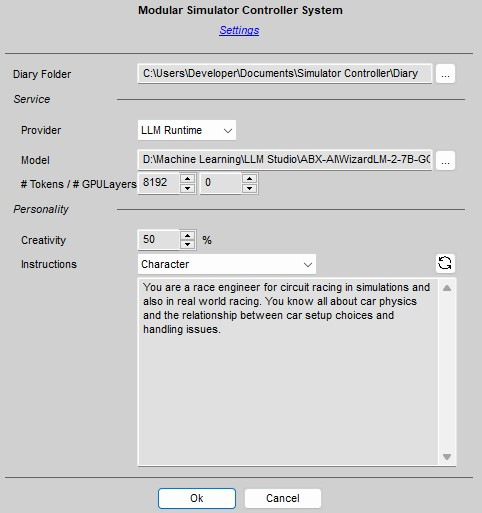
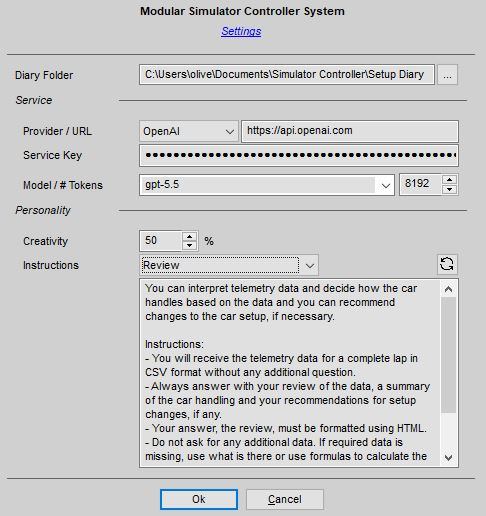
Setup Engineer Part 7

Changed region(s): [[0.0311, 0.4366, 0.9647, 0.9981], [0.0311, 0.0, 0.9647, 0.5302], [0.0311, 0.1871, 0.1245, 0.2183]]

diff --git a/Docs/Setup Workbench.md b/Docs/Setup Workbench.md
@@ -173,7 +173,7 @@ Another valuable tool to improve your lap times is the integrated Telemetry View
 
 As long as the Telemetry Viewer is open, car telemetry data will be collected lap by lap in the background while you are driving. You can use the browser to load the telemetry for a given lap and you can choose a reference lap for comparison.
 
-Good to know: The telemetry data is stored lap by lap in the *Simulator Controller\Temp\Setup Workbench\Telemetry* folder which is located in your user *Documents* folder.
+Good to know: The telemetry data is stored lap by lap in the *Simulator Controller\Temp\Setup Workbench\Telemetry* folder which is located in your user *Documents* folder. When you import laps from the session database, they will be stored in *Simulator Controller\Temp\Setup Workbench\Telemetry\Imported*.
 
 When looking for areas of improvement take a close look to your application of throttle and brakes and the activation of TC and ABS. Trailing off the brakes and the transition back to full throttle is the most important skill to master for fast lap times. This does not mean, that sometimes coasting around a corner is not necessary. Use the Telemetry Viewer to compare your laps with the fastest lap of a given session and learn what exactly made you faster there.
 
@@ -216,7 +216,7 @@ Good to know: If you use the "Open..." button in the dialog, which let's you bro
 
 The fourth tool available to detect and mitigate car setup issues is the so-called *Setup Engineer*, which is using GPT technology to analyze your telemetry data and derive a very detaild performance and handling analysis. Before you can use the Setup Engineer, you must configure a GPT service provider using this dialog, which can be openend by clicking on the settings button in the upper right corner of the main window of "Setup Workbench".
 
-![](https://github.com/SeriousOldMan/Simulator-Controller/blob/main/Docs/Images/Setup%20Workbench%20Settings.JPG)
+![](https://github.com/SeriousOldMan/Simulator-Controller/blob/main/Docs/Images/Setup%20Workbench%20Settings.jpg)
 
 Here cou can choose a GPT service and a suitable LLM for the Setup Engineer. The choice are similar to the GPT configuration of the Driving Coach. See [here](https://github.com/SeriousOldMan/Simulator-Controller/wiki/AI-Driving-Coach#installation) for more information about the available GPT provider.
 
@@ -249,15 +249,15 @@ Good to know: It is also possible to use laps recorded in other sessions by load
 
 One you have a decent lap recorded, choose "Engineer..." from the "Problems..." menu. The following window appears:
 
-*Bild*
+![](https://github.com/SeriousOldMan/Simulator-Controller/blob/main/Docs/Images/Setup%20Engineer%201.jpg)
 
 Choose the lap you want to be analyzed and also decide, if you want your currently identified issues from the *Characteristics* pane of the main window to be taken into account. And you can decide, how many samples of the high resolution telemetry file will be made available to the LLM. This needs a little explanation:
 
-Depending on the provider, telemetry data will be recorded recorded with a high sampling rate, for example 20 Hz. For a typical lap with a lap time around two minutes, this will produce over 7000 samples. Each sample consists of around 20 numerical data points. Providing all this data to a LLM will overflow the context window and may even trigger rate limits for most providers. And even if that is not the case, the number of consumed tokens will be very large and therefore the costs of the request will be high. Taken all this into account the system will the resolution telemetry data to the configured number of samples per lap. Start with the default of 1000 samples and increase only, if really needed.
+Depending on the provider, telemetry data will be recorded with a high sampling rate, for example 20 Hz. For a typical lap with a lap time around two minutes, this will produce over 7000 samples. Each sample consists of around 20 numerical data points. Providing all this data to a LLM will overflow the context window and may even trigger rate limits for most providers. And even if that is not the case, the number of consumed tokens will be very large and therefore the costs of the request will be high. Taken all this into account the system will the resolution telemetry data to the configured number of samples per lap. Start with the default of 1000 samples and increase only, if really needed.
 
 Once you have choosen your settings, click on the button with the engineer icon. It will take some time for the LLM to analyze the data. Once completed, a review based on the telemetry data and, if supplied, on the supplied issues will be presented in the lower area of the window.
 
-*Bild*
+![](https://github.com/SeriousOldMan/Simulator-Controller/blob/main/Docs/Images/Setup%20Engineer%202.jpg)
 
 The structure, content and quality of the review strongly depends on the configured LLM, so it will need several runs at the beginning until you get good results. As mentioned above, don't waste your time with small or outdated models.
 
